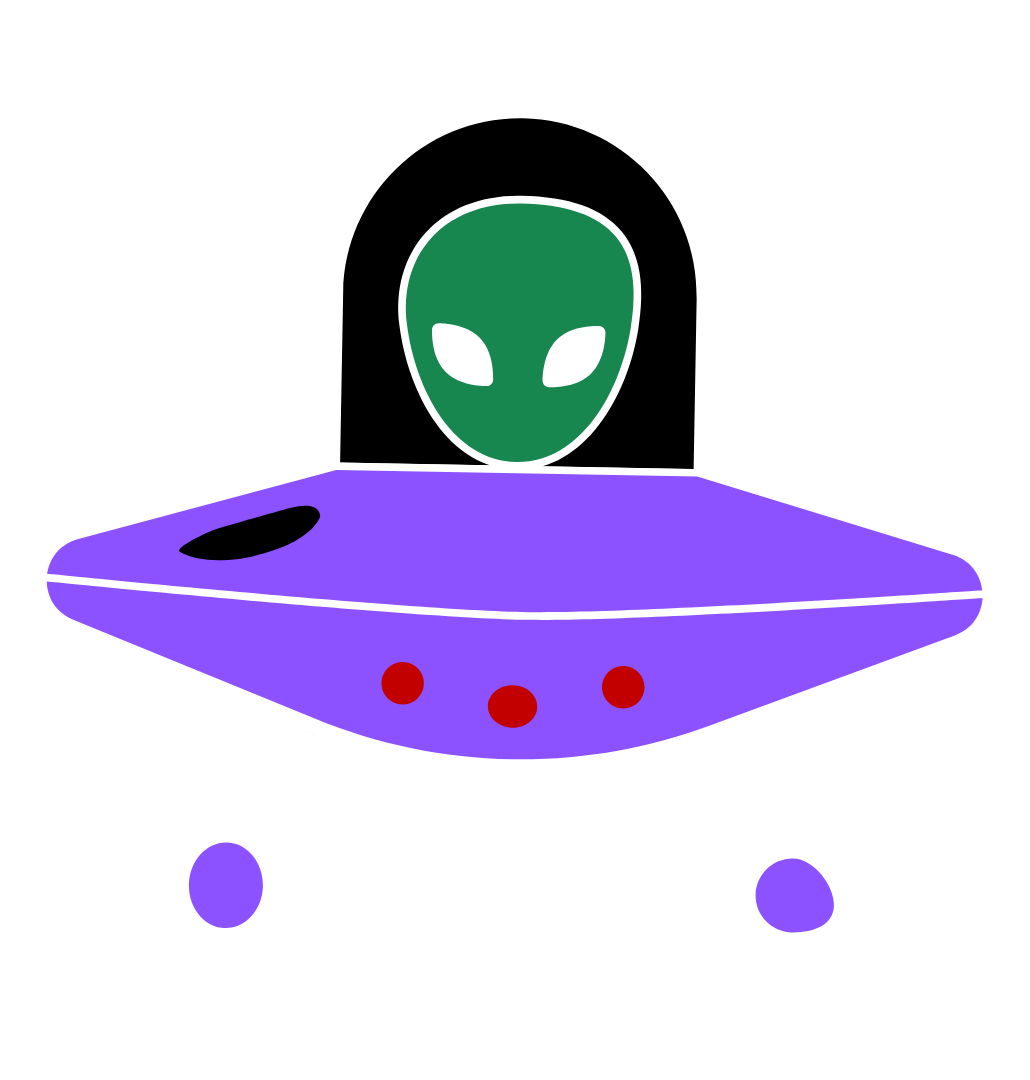
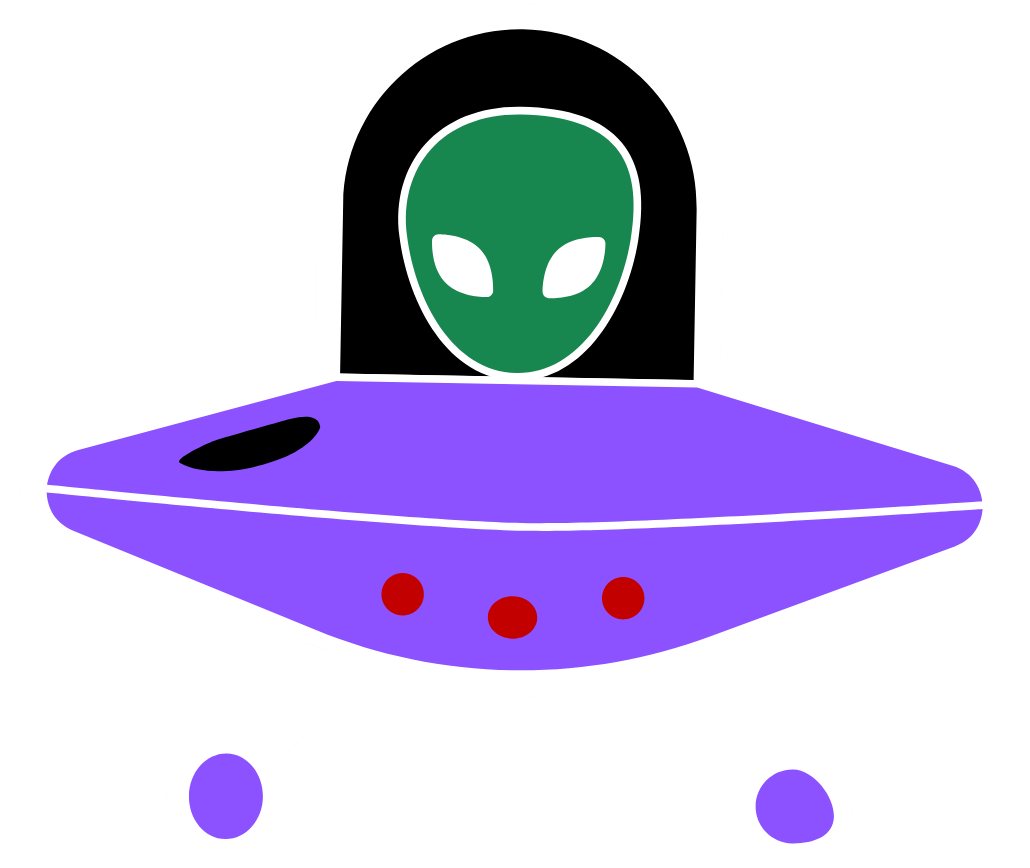
HitBox do boss corrigida

Changed region(s): [[0.0311, 0.0311, 0.9631, 0.7776], [0.7146, 0.7776, 0.8078, 0.9954], [0.1864, 0.7776, 0.2796, 0.9643]]

diff --git a/Projeto jogo/scripts/objetos.py b/Projeto jogo/scripts/objetos.py
@@ -310,11 +310,11 @@ class Boss(pygame.sprite.Sprite):
             self.rect.x -= self.speed
         if self.subindo:
             self.moveUp()
-            if self.rect.top <= self.top_limit*2:
+            if self.rect.top <= dimensions["HEIGHT"]*0.1:
                 self.subindo = False
         else:
             self.moveDown()
-            if self.rect.bottom >= self.bottom_limit - self.top_limit*2:
+            if self.rect.bottom >= dimensions["HEIGHT"]:
                 self.subindo = True
 
 

diff --git a/Projeto jogo/scripts/finalizarJogo.py b/Projeto jogo/scripts/finalizarJogo.py
@@ -75,6 +75,9 @@ def gameOver(tela):
     return True
 
 def finalizarJogo (tela):
+
+    
+
     del tela
     mainCharacter.empty()
     all_sprites.empty()
